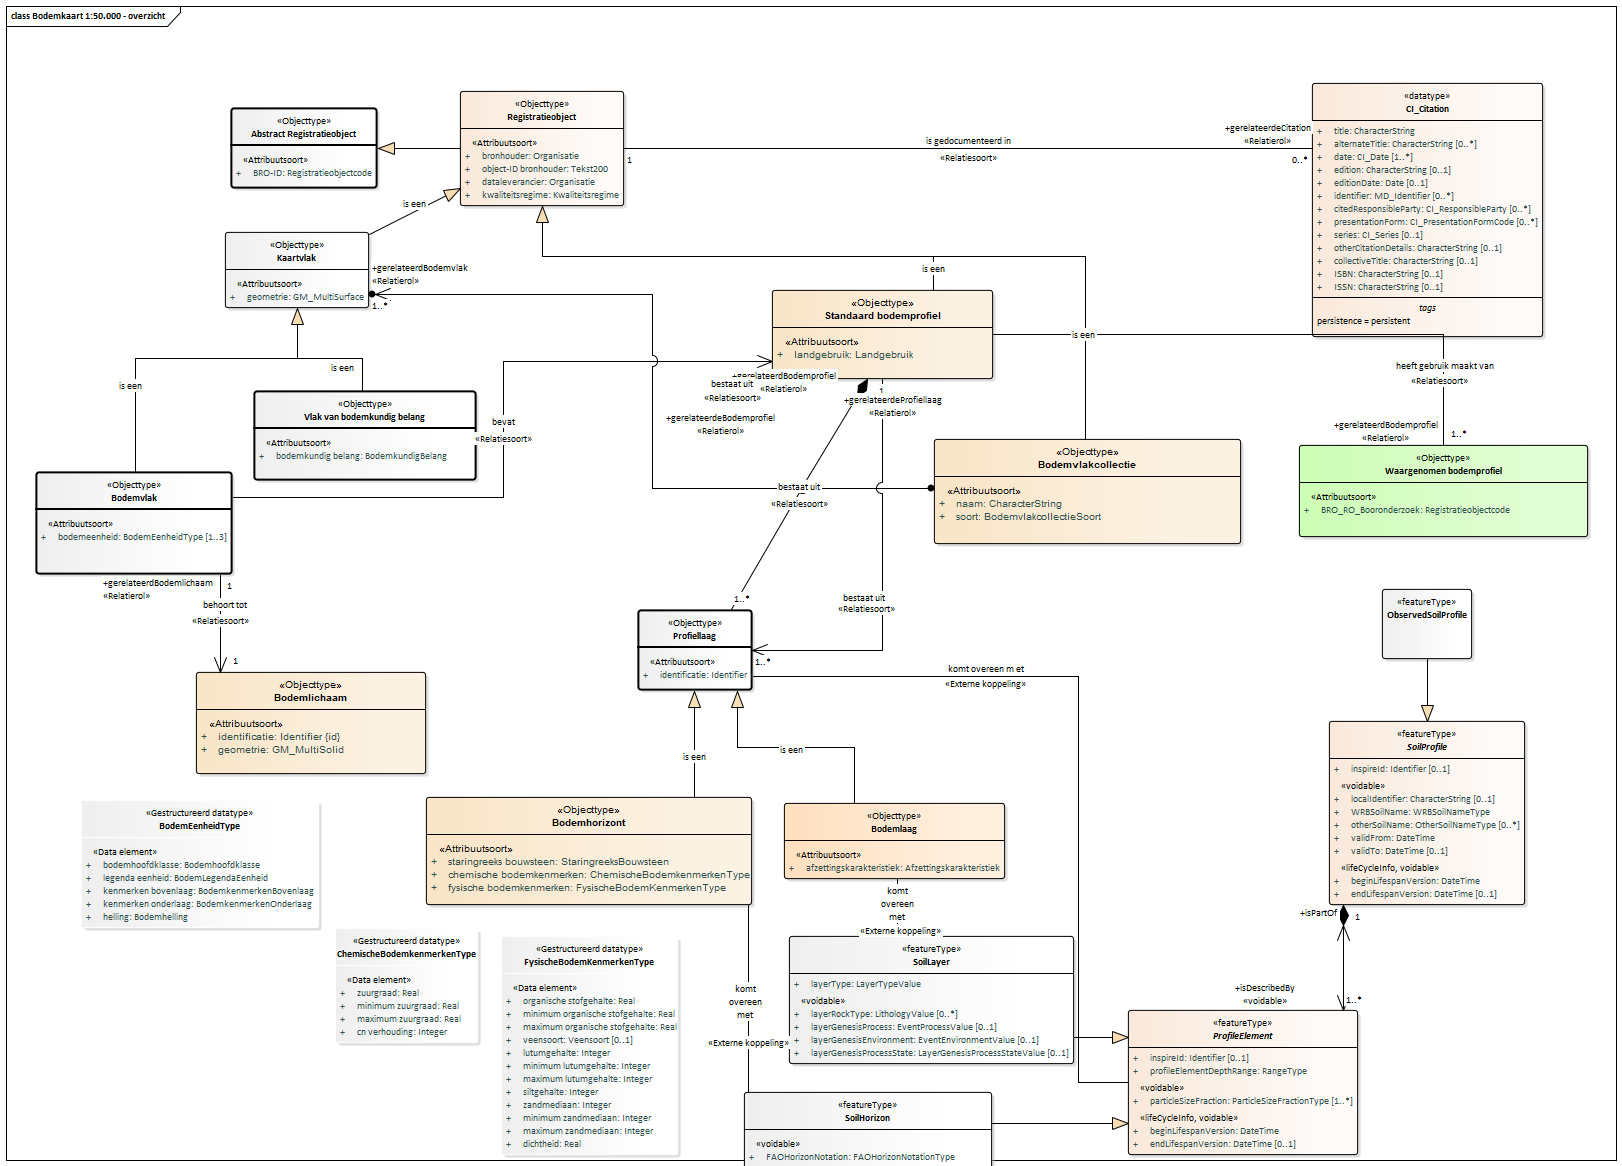
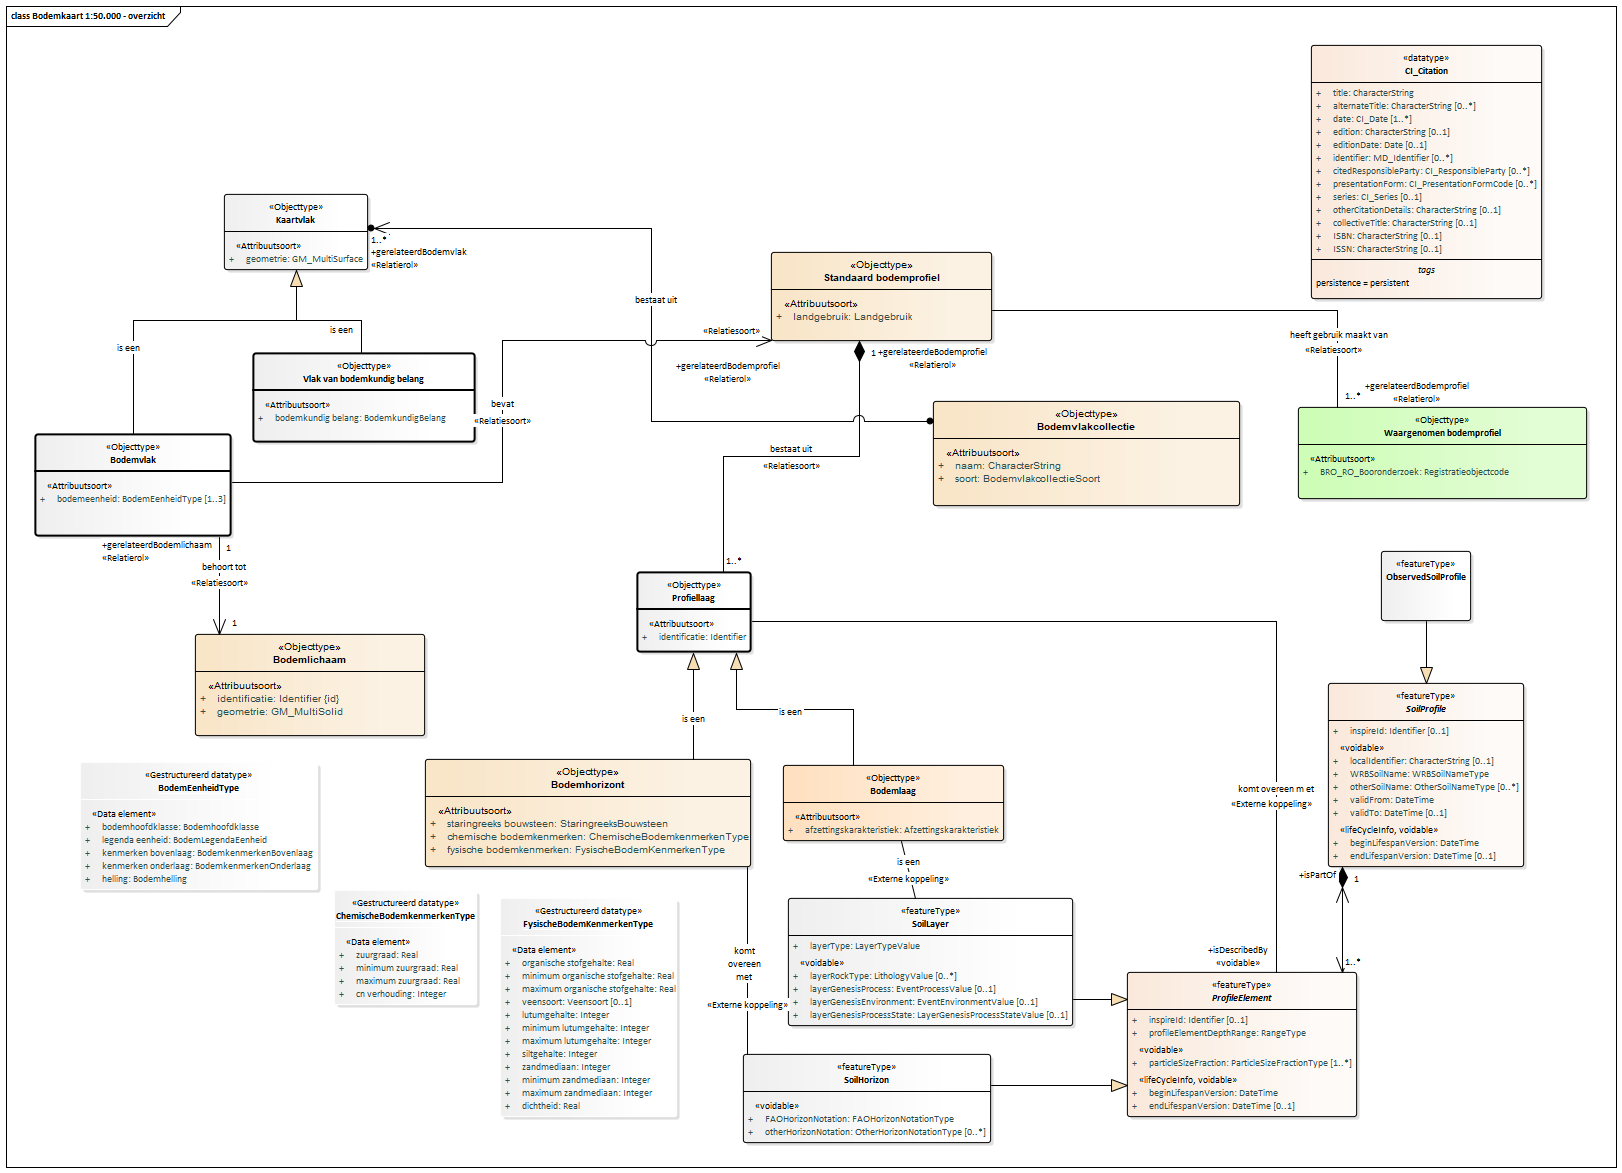
Conceptualmodel-BodemkaartSGM-1.0-1-20180806-20181112-124206

diff --git a/data/SGM-cat.html b/data/SGM-cat.html
@@ -1,26 +1,26 @@
 <h2>Catalogus</h2>
 <p class="note" title="Over deze catalogus">
    Deze catalogus is automatisch samengesteld op basis van het UML model 
-   "Bodemkaart (SGM)" door Imvertor 1.47.6 op November 8, 2018 at 15:50:04.
+   "Bodemkaart (SGM)" door Imvertor 1.47.6 op November 12, 2018 at 11:42:04.
    <br>
    Wanneer je technische fouten of onvolkomenheden aantreft, geef dit dan door aan <i></i> en geef de code 
-   <i>"Conceptualmodel-BodemkaartSGM-1.0-1-20180806-20181108-165006"</i> door. 
+   <i>"Conceptualmodel-BodemkaartSGM-1.0-1-20180806-20181112-124206"</i> door. 
    
 </p>
 <div class="imageinfo overview"><img src="data/Images/EAID_6F1DEB4D_0857_407f_96D1_68CEB4BA18C6.png" usemap="#imagemap-EAID_6F1DEB4D_0857_407f_96D1_68CEB4BA18C6"><map name="imagemap-EAID_6F1DEB4D_0857_407f_96D1_68CEB4BA18C6">
-      <area shape="rect" coords="225,308,369,232" alt="" href="#graph_EAID_99801C7D_8272_47b8_8892_0FFAA25819DC">
-      <area shape="rect" coords="254,480,476,391" alt="" href="#graph_EAID_FFE7D8E2_A953_49c6_AB62_7366945DDAB6">
-      <area shape="rect" coords="36,574,232,472" alt="" href="#graph_EAID_1A0B021D_CECB_4888_896B_045EDB9287FB">
-      <area shape="rect" coords="638,690,752,610" alt="" href="#graph_EAID_0A1B4464_10D3_4b80_8F56_64ECFF79B2BF">
-      <area shape="rect" coords="501,1155,678,936" alt="" href="#graph_EAID_7487B6E9_2821_4136_A6BD_45BCC55D08C4">
-      <area shape="rect" coords="335,1043,478,928" alt="" href="#graph_EAID_E7CD7773_A9F8_46e0_87D3_D98930256054">
-      <area shape="rect" coords="81,928,319,800" alt="" href="#graph_EAID_851EC4B0_D56E_4be9_A97B_2603C79F70A0">
-      <area shape="rect" coords="784,879,1005,803" alt="" href="#graph_EAID_D6147D13_A2CE_4eac_846C_D98CF51FC411">
-      <area shape="rect" coords="426,905,752,797" alt="" href="#graph_EAID_51B920BD_F7BA_420b_8BC2_F95666441BBE">
-      <area shape="rect" coords="772,379,993,290" alt="" href="#graph_EAID_F7554868_9447_4c85_91F2_85A060A04221">
-      <area shape="rect" coords="1299,537,1588,445" alt="" href="#graph_EAID_A1837B5E_AAEC_4abd_AD4E_490E18AC9B51">
-      <area shape="rect" coords="196,774,426,672" alt="" href="#graph_EAID_937AC71F_F454_49a3_8257_4ED3B68B25F1">
-      <area shape="rect" coords="934,544,1241,439" alt="" href="#graph_EAID_D299245E_D76A_4628_9E60_A0D563127253"></map><p><b>Bodemkaart 1:50.000 - overzicht</b></p>
+      <area shape="rect" coords="224,270,368,194" alt="" href="#graph_EAID_99801C7D_8272_47b8_8892_0FFAA25819DC">
+      <area shape="rect" coords="253,442,475,353" alt="" href="#graph_EAID_FFE7D8E2_A953_49c6_AB62_7366945DDAB6">
+      <area shape="rect" coords="35,536,231,434" alt="" href="#graph_EAID_1A0B021D_CECB_4888_896B_045EDB9287FB">
+      <area shape="rect" coords="637,652,751,572" alt="" href="#graph_EAID_0A1B4464_10D3_4b80_8F56_64ECFF79B2BF">
+      <area shape="rect" coords="500,1117,677,898" alt="" href="#graph_EAID_7487B6E9_2821_4136_A6BD_45BCC55D08C4">
+      <area shape="rect" coords="334,1005,477,890" alt="" href="#graph_EAID_E7CD7773_A9F8_46e0_87D3_D98930256054">
+      <area shape="rect" coords="80,890,318,762" alt="" href="#graph_EAID_851EC4B0_D56E_4be9_A97B_2603C79F70A0">
+      <area shape="rect" coords="783,841,1004,765" alt="" href="#graph_EAID_D6147D13_A2CE_4eac_846C_D98CF51FC411">
+      <area shape="rect" coords="425,867,751,759" alt="" href="#graph_EAID_51B920BD_F7BA_420b_8BC2_F95666441BBE">
+      <area shape="rect" coords="771,341,992,252" alt="" href="#graph_EAID_F7554868_9447_4c85_91F2_85A060A04221">
+      <area shape="rect" coords="1298,499,1587,407" alt="" href="#graph_EAID_A1837B5E_AAEC_4abd_AD4E_490E18AC9B51">
+      <area shape="rect" coords="195,736,425,634" alt="" href="#graph_EAID_937AC71F_F454_49a3_8257_4ED3B68B25F1">
+      <area shape="rect" coords="933,506,1240,401" alt="" href="#graph_EAID_D299245E_D76A_4628_9E60_A0D563127253"></map><p><b>Bodemkaart 1:50.000 - overzicht</b></p>
 </div>
 <div class="imageinfo overview"><img src="data/Images/EAID_2793BB12_5218_46ab_B17A_9F4C5C392B77.png" usemap="#imagemap-EAID_2793BB12_5218_46ab_B17A_9F4C5C392B77"><map name="imagemap-EAID_2793BB12_5218_46ab_B17A_9F4C5C392B77">
       <area shape="rect" coords="44,266,194,220" alt="" href="#graph_EAID_803E52C2_E581_448f_A721_83925F3746D1">
@@ -232,23 +232,6 @@
             <tr>
                <th>Rol naam met kardinaliteiten</th>
                <th>Definitie</th>
-            </tr>
-            <tr>
-               <td>
-                  Bodemvlakcollectie
-                  is specialisatie van
-                  
-                  <a class="link" href="#global_class_DomeinmodelBrocommon_Registratieobject">Registratieobject</a>
-                  
-                  
-               </td>
-               <td>Het geheel van gegevens dat betrekking heeft op het recht van een bepaalde partij
-                  een bepaalde mijnbouwactiviteit in een bepaald deel van de ondergrond van Nederland
-                  en zijn Exclusieve Economische Zone uit te voeren, en dat onder de verantwoordelijkheid
-                  van het ministerie van Economische Zaken en Klimaat aan de registerbeheerder van de
-                  basisregistratie ondergrond is aangeleverd en door de laatste in de registratie ondergrond
-                  is opgenomen.
-               </td>
             </tr>
             <tr>
                <td>
@@ -555,23 +538,6 @@
             <tr>
                <td>
                   Standaard bodemprofiel
-                  is specialisatie van
-                  
-                  <a class="link" href="#global_class_DomeinmodelBrocommon_Registratieobject">Registratieobject</a>
-                  
-                  
-               </td>
-               <td>Het geheel van gegevens dat betrekking heeft op het recht van een bepaalde partij
-                  een bepaalde mijnbouwactiviteit in een bepaald deel van de ondergrond van Nederland
-                  en zijn Exclusieve Economische Zone uit te voeren, en dat onder de verantwoordelijkheid
-                  van het ministerie van Economische Zaken en Klimaat aan de registerbeheerder van de
-                  basisregistratie ondergrond is aangeleverd en door de laatste in de registratie ondergrond
-                  is opgenomen.
-               </td>
-            </tr>
-            <tr>
-               <td>
-                  Standaard bodemprofiel
                   [ 1 ]
                   
                   <a class="link" href="#detail_association_Model_StandaardBodemprofiel_gerelateerdBodemprofiel">heeft gebruik maakt van: gerelateerdBodemprofiel</a>
@@ -585,21 +551,6 @@
                <td>De unieke aanduiding van elk Waargenomen bodemprofiel waar het Standaard bodemprofiel
                   gebruik van heeft gemaakt.
                </td>
-            </tr>
-            <tr>
-               <td>
-                  Standaard bodemprofiel
-                  [ 1 ]
-                  
-                  <a class="link" href="#detail_association_Model_StandaardBodemprofiel_gerelateerdeProfiellaag">bestaat uit: gerelateerdeProfiellaag</a>
-                  
-                  
-                  <a class="link" href="#global_class_Model_Profiellaag">Profiellaag</a>
-                  
-                  [ 1 .. * ]
-                  
-               </td>
-               <td>De unieke aanduiding van elke Profiellaag waar het Standaard bodemprofiel uit bestaat.</td>
             </tr>
             <tr>
                <td>
@@ -691,7 +642,7 @@
                   de BRO
                </td>
                <td>
-                  <a class="link" href="#global_class_DomeinmodelBrocommon_Registratieobjectcode">Registratieobjectcode</a>
+                  <a class="link" href="#global_class_BROCommon_Registratieobjectcode">Registratieobjectcode</a>
                   
                </td>
                <td>1</td>
@@ -826,21 +777,6 @@
                   <a class="link" href="#global_class_Model_StandaardBodemprofiel">Standaard bodemprofiel</a>
                   
                   [ 1 ]
-                  
-               </td>
-               <td>De unieke aanduiding van elke Profiellaag waar het Standaard bodemprofiel uit bestaat.</td>
-            </tr>
-            <tr>
-               <td>
-                  
-                  <a class="link" href="#global_class_Model_StandaardBodemprofiel">Standaard bodemprofiel</a>
-                  
-                  [ 1 ]
-                  
-                  <a class="link" href="#detail_association_Model_StandaardBodemprofiel_gerelateerdeProfiellaag">bestaat uit: gerelateerdeProfiellaag</a>
-                  
-                  Profiellaag
-                  [ 1 .. * ]
                   
                </td>
                <td>De unieke aanduiding van elke Profiellaag waar het Standaard bodemprofiel uit bestaat.</td>
@@ -1066,23 +1002,6 @@
             </tr>
             <tr>
                <td>
-                  Kaartvlak
-                  is specialisatie van
-                  
-                  <a class="link" href="#global_class_DomeinmodelBrocommon_Registratieobject">Registratieobject</a>
-                  
-                  
-               </td>
-               <td>Het geheel van gegevens dat betrekking heeft op het recht van een bepaalde partij
-                  een bepaalde mijnbouwactiviteit in een bepaald deel van de ondergrond van Nederland
-                  en zijn Exclusieve Economische Zone uit te voeren, en dat onder de verantwoordelijkheid
-                  van het ministerie van Economische Zaken en Klimaat aan de registerbeheerder van de
-                  basisregistratie ondergrond is aangeleverd en door de laatste in de registratie ondergrond
-                  is opgenomen.
-               </td>
-            </tr>
-            <tr>
-               <td>
                   
                   <a class="link" href="#global_class_Model_Bodemvlakcollectie">Bodemvlakcollectie</a>
                   
@@ -1184,7 +1103,7 @@
                   Bodemlaag
                   [ 1 ]
                   
-                  <a class="link" href="#detail_association_Model_Bodemlaag">komt overeen met</a>
+                  <a class="link" href="#detail_association_Model_Bodemlaag">is een</a>
                   
                   
                   <a class="link" href="#global_class_INSPIRE_SoilLayer">SoilLayer</a>
@@ -2308,38 +2227,6 @@
          </table>
          
       </section>
-      <a class="anchor" name="detail_association_Model_StandaardBodemprofiel_gerelateerdeProfiellaag"></a><section id="detail_association_Model_StandaardBodemprofiel_gerelateerdeProfiellaag">
-         <h6>Relatiesoort details <a href="#global_class_Model_StandaardBodemprofiel">Standaard bodemprofiel</a> bestaat uit
-         </h6>
-         
-         
-         <table>
-            <colgroup width="30%"></colgroup>
-            <colgroup width="70%"></colgroup>
-            <tbody>
-               <tr>
-                  <th>Naam</th>
-                  <td>bestaat uit</td>
-               </tr>
-               <tr>
-                  <th>Definitie</th>
-                  <td>De unieke aanduiding van elke Profiellaag waar het Standaard bodemprofiel uit bestaat.</td>
-               </tr>
-               <tr>
-                  <th>Indicatie kardinaliteit</th>
-                  <td>1 .. *</td>
-               </tr>
-               <tr>
-                  <th>Gerelateerd objecttype</th>
-                  <td>
-                     <a class="link" href="#global_class_Model_Profiellaag">Profiellaag</a>
-                     
-                  </td>
-               </tr>
-            </tbody>
-         </table>
-         
-      </section>
       
    </section>
    <a class="anchor" name="detail_class_Model_WaargenomenBodemprofiel"></a><section id="detail_class_Model_WaargenomenBodemprofiel">
@@ -2834,7 +2721,7 @@
          
       </section>
       <a class="anchor" name="detail_association_Model_Bodemlaag"></a><section id="detail_association_Model_Bodemlaag">
-         <h6>Relatiesoort details <a href="#global_class_Model_Bodemlaag">Bodemlaag</a> komt overeen met
+         <h6>Relatiesoort details <a href="#global_class_Model_Bodemlaag">Bodemlaag</a> is een
          </h6>
          
          
@@ -2844,7 +2731,7 @@
             <tbody>
                <tr>
                   <th>Naam</th>
-                  <td>komt overeen met</td>
+                  <td>is een</td>
                </tr>
                <tr>
                   <th>Indicatie kardinaliteit</th>
